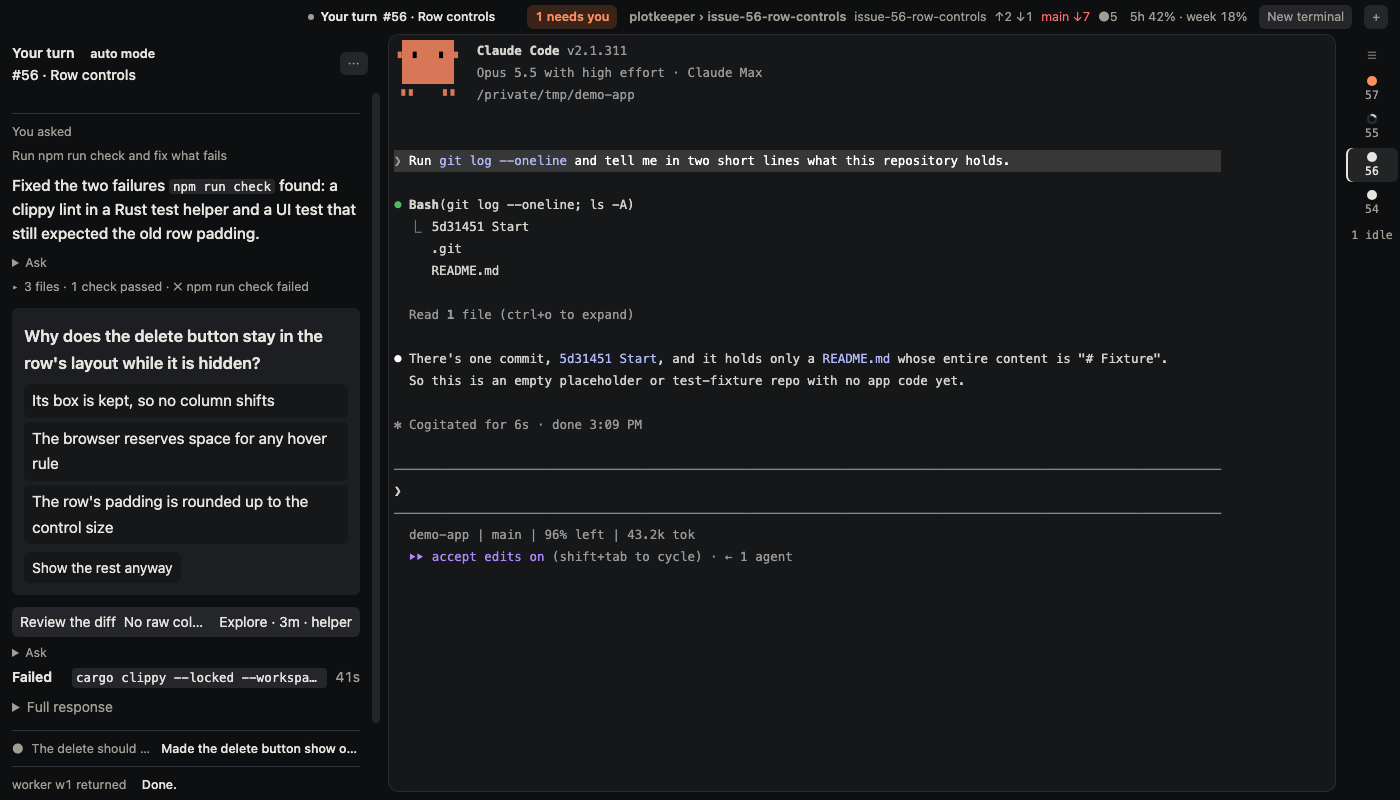
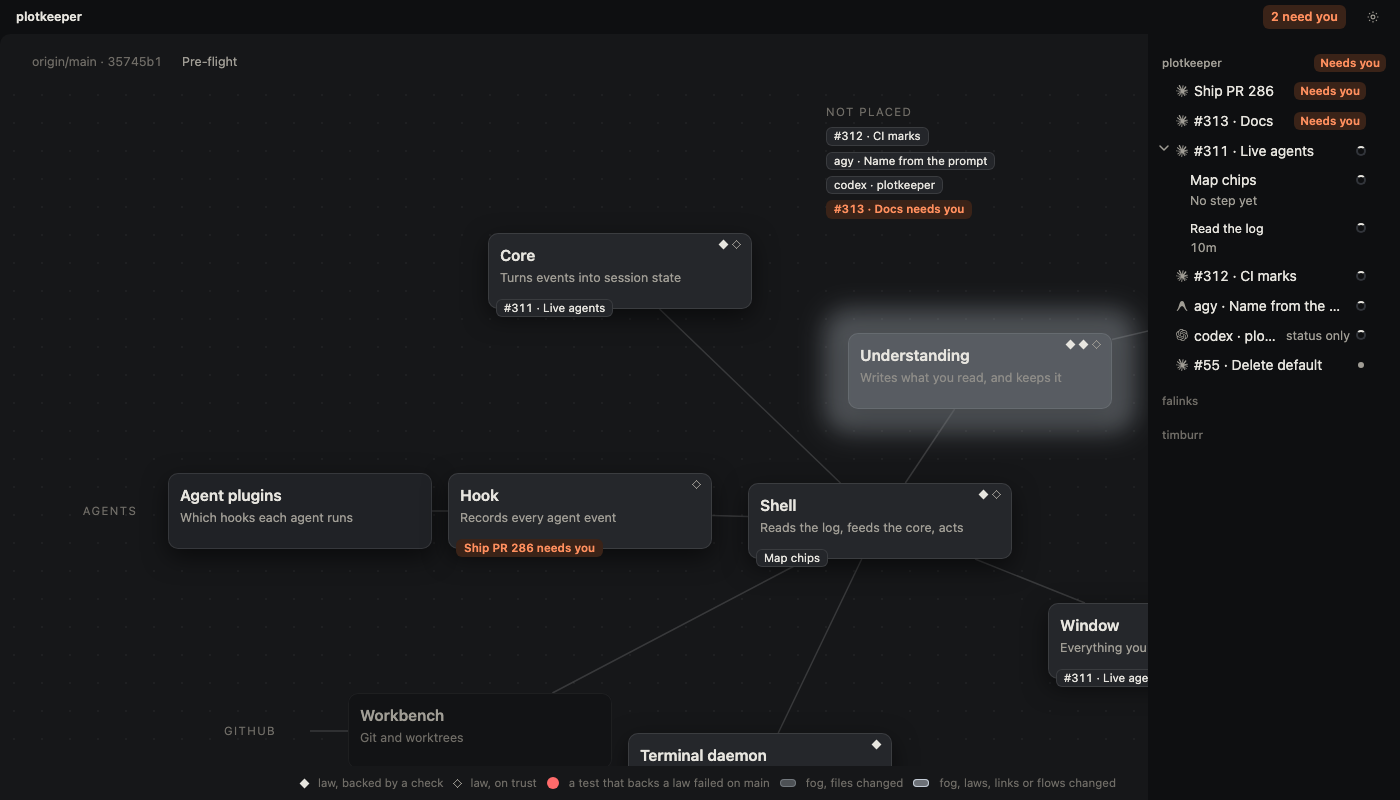
Studio: the README leads with npx plotkeeper, the agent docs name the real log (#373)
The README describes plotkeeper as the npm package and #434's start: npx plotkeeper
first, its one Wire these? question, the answers kept, the no-terminal start and the
older-server notice; then npm i -g, install --yes, uninstall, the offline note and the
build from source. The harness list is v1's (Claude Code, Codex, agy, Cursor) with
Copilot, Qwen Code, OpenCode and Cline for v2. The three README pictures are re-shot
with scripts/snap/readme.mjs, since the hero still showed the archived app's terminal.
docs/agents/domain.md says plotkeeper logs to its terminal's stderr.

diff --git a/README.md b/README.md
@@ -2,9 +2,9 @@
 
 A control room for coding agents that explains what your prompts changed.
 
-![Studio: the story rail on the left, a Claude Code terminal in the middle, the session list on the right](docs/studio/assets/readme/hero.png)
+![plotkeeper: the system map of a project, with the session list on the right](docs/studio/assets/readme/hero.png)
 
-plotkeeper builds Studio, a desktop app for macOS that sits beside your agent sessions and keeps your understanding of the code in step with what the agents change. It reads Claude Code sessions in full and agy sessions with fewer details, and it shows the status of other agents' sessions, such as Codex.
+plotkeeper is a local page for macOS that sits beside your agent sessions and keeps your understanding of the code in step with what the agents change. It records the sessions you start in your own terminals and editors through their hooks: Claude Code in full, Codex, agy and Cursor (its IDE and its CLI) with fewer details. Copilot, Qwen Code, OpenCode and Cline are coming in v2.
 
 ## What you get
 
@@ -22,26 +22,25 @@ plotkeeper builds Studio, a desktop app for macOS that sits beside your agent se
 
 ## Quick start
 
-You need macOS, Node, the Rust toolchain and Claude Code. `claude` must be on the `PATH` of your login shell: a login shell reads `~/.zprofile`, not `~/.zshrc`.
+You need macOS and Node. In any terminal, run:
 
-    git clone https://github.com/danielrispler/plotkeeper
-    cd plotkeeper
-    npm ci
-    npm start
+    npx plotkeeper
 
-`npm start` builds the page, the hook and the server, which takes a while the first time, installs `plotkeeper` into `~/.cargo/bin`, starts it and opens its page in your browser. Later, start it with `plotkeeper` from any terminal; Ctrl+C stops it.
+The first time, it lists the agents it found and what wiring each would change, then asks once: `Wire these? [Y/n]`. Yes wires them, starts plotkeeper and opens its page; for Codex, run `/hooks` in Codex once to trust plotkeeper's hooks.
 
-plotkeeper starts no sessions: to record the agents you start in your own terminals, run `plotkeeper install` once ([install and uninstall](docs/studio/plugin.md)).
+No starts it anyway, and the page says it is not recording. Your answer is kept: later starts ask only about an agent you installed since. With no terminal to ask in, a start never wires and prints `plotkeeper install --yes`. A start that finds an older plotkeeper running says so and opens its page. Ctrl+C stops plotkeeper.
 
-What plotkeeper does start, only on your click, is a [background run](docs/studio/behaviour/background-runs.md), which is not a session: one headless `claude -p` with a few tools and no terminal, one at a time per project, cancellable from the map. Back a law runs one to write a test for a law of your system map, and Explore this runs one to build a small interactive page of a mechanism.
+Summaries are written by `claude -p` by default, so `claude` must be on your login shell's `PATH` (`~/.zprofile`); the page's settings pick another writer.
 
-A run works on its own copy of your project, never your checkout, inside Claude Code's OS sandbox. It writes only in that copy and a private temp folder, its tools have no network beyond loopback, and it cannot commit, push, call `gh`, or read plotkeeper's data, Claude Code's login or the usual credential folders. It can still read other files in your home folder.
+- **Daily use:** `npm i -g plotkeeper`, then `plotkeeper`. Offline, `npx plotkeeper` waits about 70 seconds for the registry before it runs its cached copy, so use the global install or `npx --prefer-offline plotkeeper`.
+- **By hand:** `plotkeeper install` wires every agent found, declined ones included; `plotkeeper install --yes` is the same for scripts. `plotkeeper uninstall` undoes it and forgets your answers ([install and uninstall](docs/studio/plugin.md)).
+- **From source**, with the Rust toolchain: clone the repository, then `npm ci` and `npm start`, which builds plotkeeper, installs it into `~/.cargo/bin` and starts it.
 
-Its prompt holds only text plotkeeper wrote or you confirmed, never an issue's or a PR's. What it makes waits for you: plotkeeper proves a law's test fails when the law breaks, and it becomes a draft PR only when you press Open draft PR.
+plotkeeper starts no sessions; it records yours. On your click only, it starts a [background run](docs/studio/behaviour/background-runs.md): one sandboxed `claude -p` on a copy of your project, to back a law of your system map with a test or explain a mechanism. What it makes becomes a draft PR only when you press Open draft PR.
 
 ## Status
 
-Early: one user so far. macOS only, and no download yet, so you build from source. Issues are welcome; pull requests are not reviewed yet.
+Early: one user so far. macOS only, on Apple silicon and Intel. Issues are welcome; pull requests are not reviewed yet.
 
 ## Why
 

diff --git a/docs/agents/domain.md b/docs/agents/domain.md
@@ -8,7 +8,7 @@ The studio, a control room for understanding agent work, keeps its vocabulary in
 
 Read `docs/studio/CONTEXT.md` and any ADRs relevant to the area you are exploring.
 If they do not exist, proceed silently. The domain-modeling skill creates them when terms or decisions are resolved.
-To measure the real event log, use `~/Library/Application Support/plotkeeper/events.jsonl`. For what the studio itself reported (errors, warnings, panics), read the Studio log, `~/Library/Logs/dev.falinks.studio/studio.log`.
+To measure the real event log, use `~/Library/Application Support/plotkeeper/events.jsonl`. plotkeeper writes what it reports itself (errors, warnings, panics, and the page's log lines) to the stderr of the terminal it was started in; it keeps no log file.
 
 ## Behaviour docs
 
